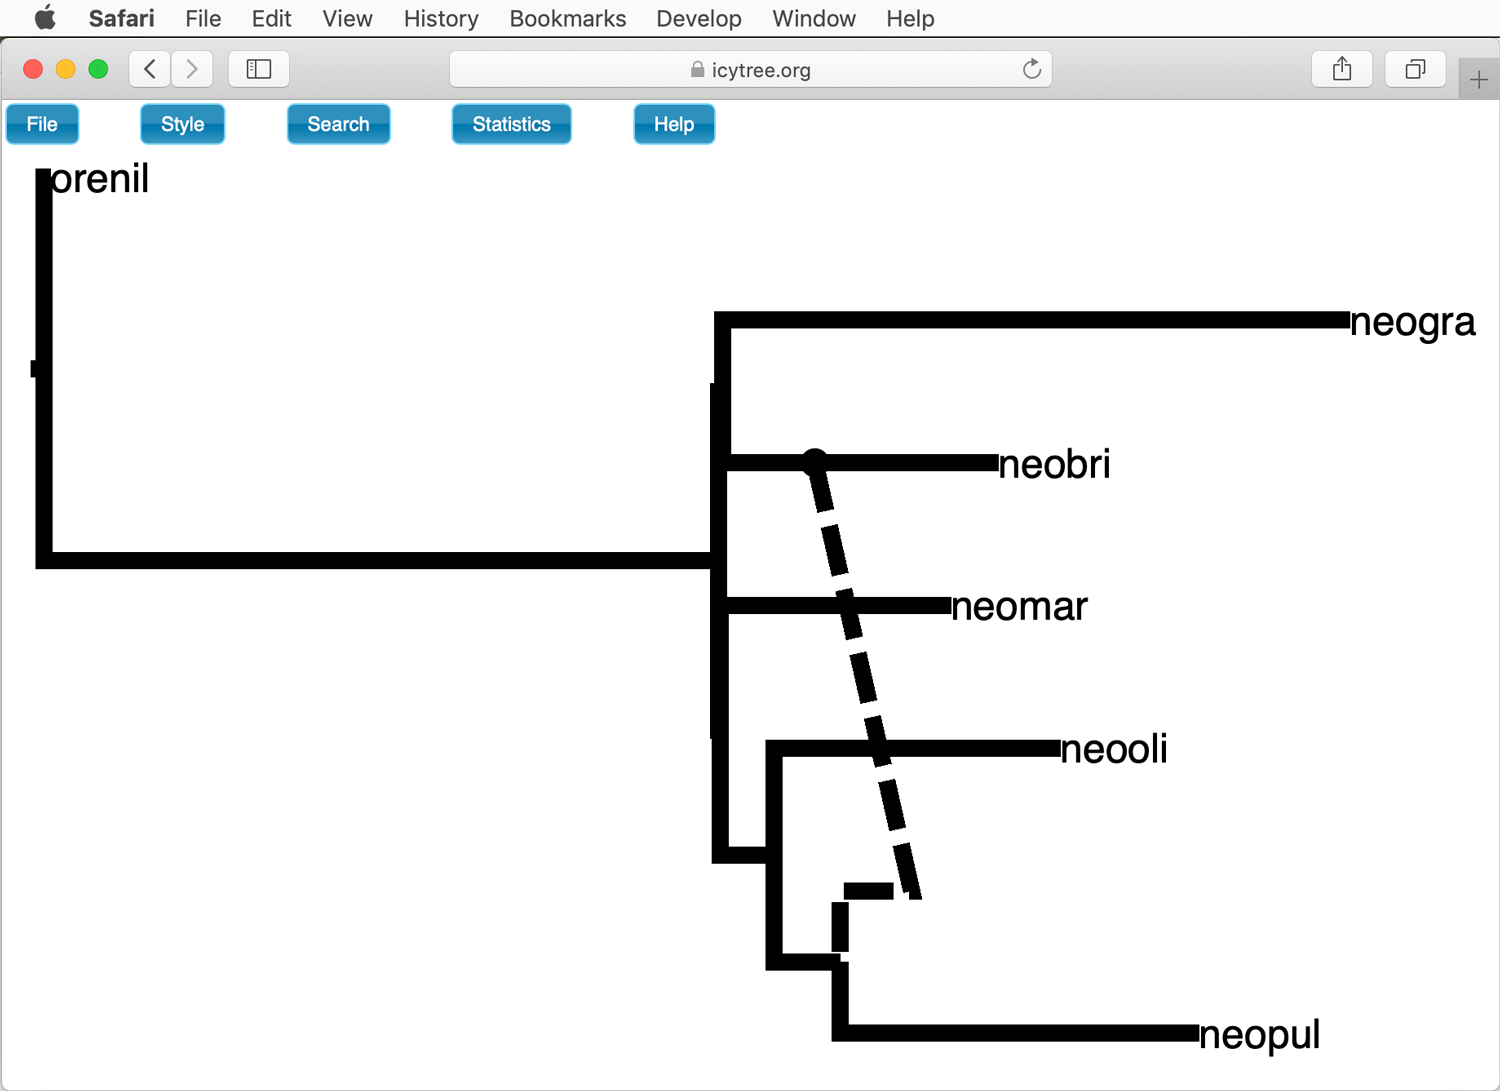
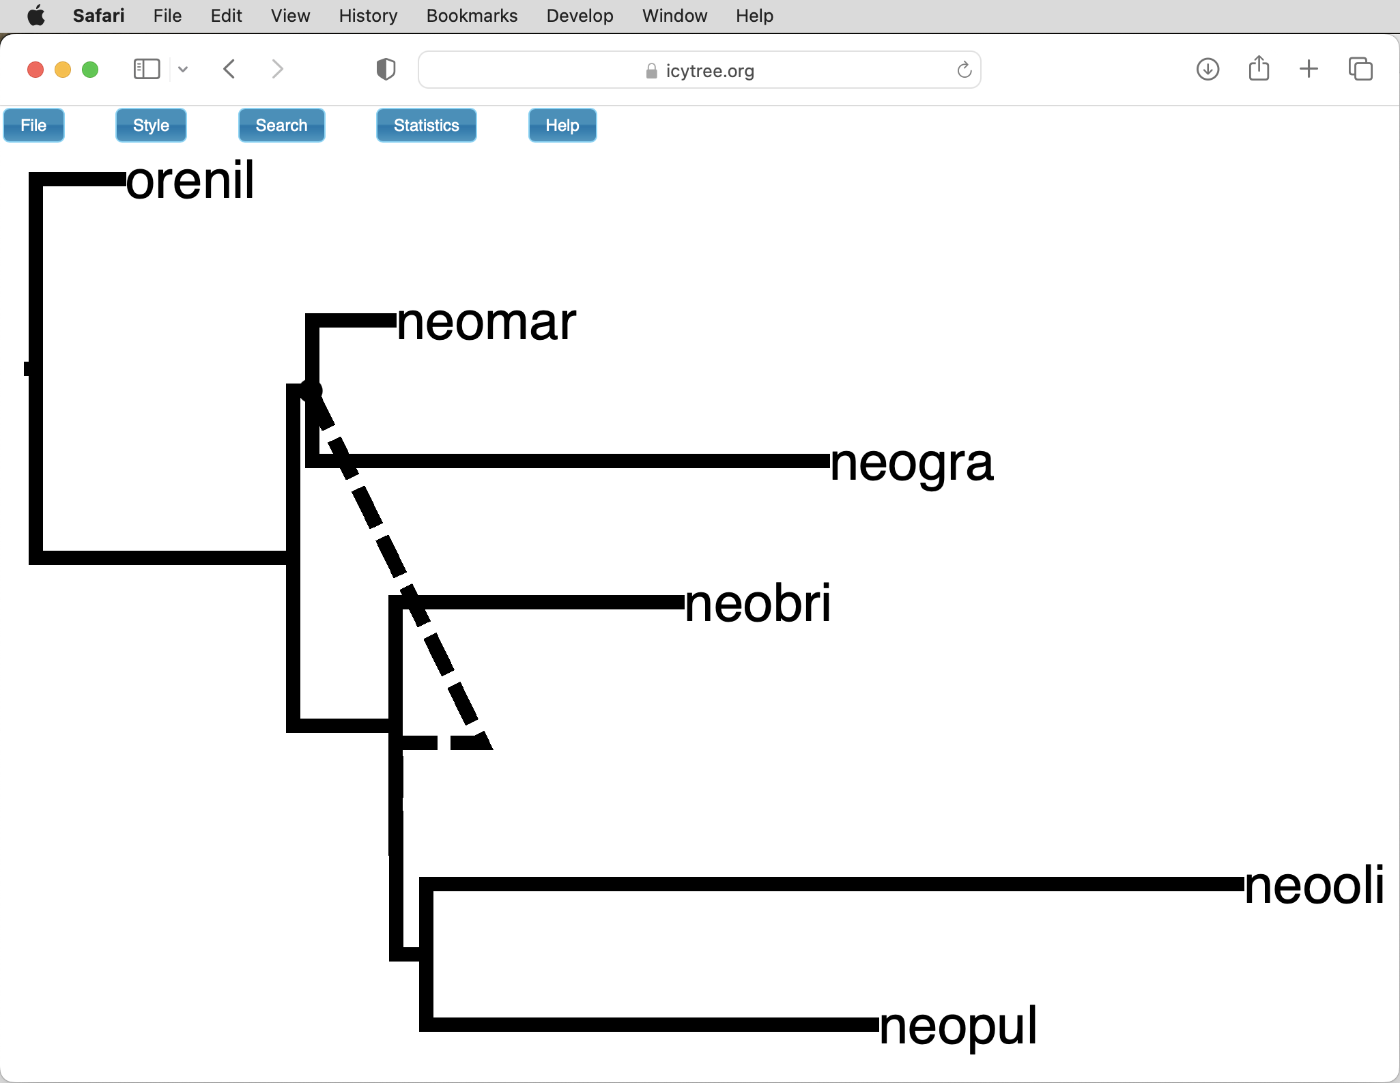
updated tutorial ml inference of species networks

Changed region(s): [[0.1843, 0.2742, 1.0, 0.9751], [0.0, 0.0, 1.0, 0.518], [0.6143, 0.9141, 0.8907, 0.9751]]

diff --git a/ml_inference_of_species_networks/README.md b/ml_inference_of_species_networks/README.md
@@ -5,7 +5,7 @@ By [Michael Matschiner](https://evoinformatics.group/team.html#michaelmatschiner
 
 ## Summary
 
-Particularly when investigating groups of rapidly diverging species, incomplete lineage sorting (ILS) may not be the only biological process leading to variation among gene trees. Hybridization between species can lead to transfer of genetic material – so-called "introgression" between these, and thus produce gene trees that differ from the species tree. Introgression can therefore add "reticulation edges" to species trees, meaning that these are no longer bi-furcating and become a "network" instead of a tree. The identification of species networks from genomic data is still a challenging task that sees a lot of active method development. The more applicable of the currently available methods infer species networks from sets of alignments or gene trees; while a few SNP-based methods have been developed, these are so far too computationally demanding to be practical. In this tutorial, we will apply one of the earliest methods for the inference of species networks from gene trees, the "[InferNetwork\_ML](https://wiki.rice.edu/confluence/display/PHYLONET/InferNetwork_ML)" method implemented in the program [PhyloNet](https://bioinfocs.rice.edu/phylonet).
+Particularly when investigating groups of rapidly diverging species, incomplete lineage sorting (ILS) may not be the only biological process leading to variation among gene trees. Hybridization between species can lead to transfer of genetic material – so-called "introgression" between these – and thus produce gene trees that differ from the species tree. Introgression can therefore add "reticulation edges" to species trees, meaning that these are no longer bi-furcating and become a "network" instead of a tree. The identification of species networks from genomic data is still a challenging task that sees a lot of active method development. The more applicable of the currently available methods infer species networks from sets of alignments or gene trees; while a few SNP-based methods have been developed, these are so far too computationally demanding to be practical. In this tutorial, we will apply one of the earliest methods for the inference of species networks from gene trees, the "[InferNetwork\_ML](https://wiki.rice.edu/confluence/display/PHYLONET/InferNetwork_ML)" method implemented in the program [PhyloNet](https://bioinfocs.rice.edu/phylonet). This method was recently highlighted as being particularly reliable despite its speed ([Hibbins and Hahn 2022](https://doi.org/10.1093/genetics/iyab173)).
 
 
 ## Table of contents
@@ -58,7 +58,7 @@ The following tools are required additionally:
 
 * **PhyloNet:** The [PhyloNet](https://bioinfocs.rice.edu/phylonet) program ([Than et al. 2008](https://doi.org/10.1186/1471-2105-9-322)) implements a range of methods for the inference of species trees and networks in a maximum-likelihood, Bayesian, or parsimony framework. PhyloNet is not available as a module on Saga, but as it is written in Java, it also does not need to be compiled and can thus simply be downloaded and placed in the current directory on Saga. This can be done with the following commands:
 
-		wget https://bioinfocs.rice.edu/sites/g/files/bxs266/f/kcfinder/files/PhyloNet_3.8.2.jar
+		wget https://phylogenomics.rice.edu/media/PhyloNet.jar
 	
 	To run PhyloNet, Java is required. To load Java, use these commands:
 	
@@ -67,7 +67,7 @@ The following tools are required additionally:
 
 * **babette:** [babette](https://github.com/ropensci/babette) ([Bilderbeek and Etienne (2018)](https://doi.org/10.1111/2041-210X.13032)) is an R package that allows the generation of basic XML input files for BEAST2 through scripting instead of the BEAUti GUI. Installation of this R package is required on Saga. To install it there, use the following commands:
 
-		module load R/4.0.0-foss-2020a
+		module load R/4.1.0-foss-2021a
 		R
 		install.packages("babette", repos='http://cran.us.r-project.org')
 		quit(save="no")
@@ -78,6 +78,10 @@ The following tools are required additionally:
 ## Extraction of alignment blocks
 
 As the whole-genome alignment produced in tutorial [Whole-Genome Alignment](../whole_genome_alignment/README.md) is stored in MAF format, and this format can not be read by programs for phylogenetic inference, we will need to first extract sets of alignment blocks in a format such as Nexus before these can used for the analyses in this tutorial. We are going to combine this alignment extraction with some basic filtering to extract alignment blocks only from the most reliably aligned regions of the whole-genome alignment.
+
+* Make sure that you have file `cichlids_chr5.maf` in your current working directory on Saga. If that is not the case, copy it from the directory in which you performed the Cactus analysis in tutorial [Whole-Genome Alignment](../whole_genome_alignment/README.md), or copy it from `/cluster/projects/nn9458k/phylogenomics/week2/res`:
+
+		cp /cluster/projects/nn9458k/phylogenomics/week2/res/cichlids_chr5.maf .
 
 * Add the script `make_alignments_from_maf.py` to your current directory on Saga, by copying it from `/cluster/projects/nn9458k/phylogenomics/week2/src` or by downloading it from GitHub, using one of the following two commands:
 
@@ -154,18 +158,15 @@ However, we obviously don't want to set up XML files with BEAUti for hundreds or
 		#
 		# Accounting:
 		#SBATCH --account=nn9458k
-		#
-		# Output:
-		#SBATCH --output=prepare_phylonet.out
 
 		# Set up job environment.
 		set -o errexit  # Exit the script on any error
 		set -o nounset  # Treat any unset variables as an error
 		module --quiet purge  # Reset the modules to the system default
 
-		# Load modules
-		module load R/4.0.0-foss-2020a
-		module load Beast/2.6.4-GCC-9.3.0
+		# Load module.
+		module load R/4.1.0-foss-2021a
+		module load Beast/2.6.7-GCC-10.3.0-CUDA-11.3.1
 
 		# Set a variable for the directory.
 		dir=alignments
@@ -179,7 +180,7 @@ However, we obviously don't want to set up XML files with BEAUti for hundreds or
 			xml=${fasta%.fasta}.xml
 			Rscript make_xml.r ${fasta} ${xml}
 		done
-
+	
 		# Analyze every xml file with beast.
 		cd ${dir} # Go into the alignment directory to run beast there. 
 		for xml in *${last_char}.xml
@@ -202,18 +203,27 @@ However, we obviously don't want to set up XML files with BEAUti for hundreds or
 			Rscript convert_to_newick.r ${tre} ${nwk}
 		done
 
-	This script uses a quick-and-dirty way allowing parallelization: The line with `last_char=${1}` stores a variable that can be specified outside of this script, when calling it with `sbatch`. When we then call this script for example with `sbatch prepare_phylonet.slurm 0`, the variable "0" is passed into it and used to process only a subset of files. The line `for fasta in ${dir}/*${last_char}.fasta` for example then loops over all Fasta file in the alignment directory that end in `0.fasta`. We can therefore submit this script ten times with `sbatch prepare_phylonet.slurm 0` to `sbatch prepare_phylonet.slurm 9` to process all alignment files with ten parallel analyses. This will allow us to reduce the run time from over 2 hours to about 20 minutes.
+	This script uses a quick-and-dirty way allowing parallelization: The line with `last_char=${1}` stores a variable that can be specified outside of this script, when calling it with `sbatch`. When we then call this script for example with `sbatch prepare_phylonet.slurm 0`, the variable "0" is passed into it and used to process only a subset of files. The line `for fasta in ${dir}/*${last_char}.fasta` for example then loops over all Fasta file in the alignment directory that end in `0.fasta`. We can therefore submit this script ten times with `sbatch prepare_phylonet.slurm 0` to `sbatch prepare_phylonet.slurm 9` to process all alignment files with ten parallel analyses. This will allow us to reduce the run time from over 2 hours to about 20 minutes. If you noticed that we here used an older BEAST2 module: This was necessary because babette is not yet made compatible with the latest version of BEAST2, v.2.7.
 
 * Submit this new Slurm script ten times with `sbatch` using the following loop:
 
-		for i in {0..9}; do sbatch prepare_phylonet.slurm ${i}; done
+		for i in {0..9}
+		do
+			sbatch -o prepare_phylonet.${i}.out prepare_phylonet.slurm ${i}
+		done
 
-	As the script runs, it should first add XML files to the alignment directory, then BEAST2's output files, then the MCC summary trees, and finally files with the MCC trees converted to Newick format. You could occasionally monitor the progress of it by checking of how many files with the endings `.xml`, `.trees`, `.tre`, and `.nwk` have already been written:
+	As the script runs, it should first add XML files to the alignment directory, then BEAST2's output files, then the MCC summary trees, and finally files with the MCC trees converted to Newick format.
+	
+* Occasionally monitor the progress of the script `prepare_phylonet.slurm` by checking how many files with the endings `.xml`, `.trees`, `.tre`, and `.nwk` have already been written:
 
 		ls alignments/*.xml | wc -l
 		ls alignments/*.trees | wc -l
 		ls alignments/*.tre | wc -l
 		ls alignments/*.nwk | wc -l
+
+	Compare these numbers to the number of alignment files in Fasta format:
+	
+		ls alignments/*.fasta | wc -l
 
 * When the Slurm script has finished, make sure that the expected number of files with the ending `.nwk` has been written:
 
@@ -307,7 +317,7 @@ However, we obviously don't want to set up XML files with BEAUti for hundreds or
 		module load Java/11.0.2
 
 		# Run phylonet.
-		java -jar PhyloNet_3.8.2.jar phylonet.nex
+		java -jar PhyloNet.jar phylonet.nex
 
 * Then, submit the script `run_phylonet.slurm` with `sbatch`:
 
@@ -494,7 +504,7 @@ If there is time left, you could repeat the PhyloNet analysis with gene trees wi
 		module load Java/11.0.2
 
 		# Run phylonet.
-		java -jar PhyloNet_3.8.2.jar phylonet_nobl.nex
+		java -jar PhyloNet.jar phylonet_nobl.nex
 
 * Then, submit this Slurm script with `sbatch`:
 
@@ -517,9 +527,9 @@ If we had *a priori* hypotheses for how the species within the dataset could be 
 
 We'll use the `CalGTProb` command to assess the relative support of two hypotheses: The null hypothesis that assumes no introgression, and the alternative hypothesis in which introgression occurred between *Neolamprologus brichardi* ("neobri") and *Neolamprologus pulcher* ("neopul"). In both cases, the species relationship is assumed to be according to the most strongly supported phylogeny found for these species by [Bouckaert et al. (2019)](https://doi.org/10.1371/journal.pcbi.1006650). The corresponding strings in extended Newick format are the listed below.
 
-null_hypothesis: "(orenil,((neomar,neogra),(neobri,(neooli,neopul))));"
+Null hypothesis: "(orenil,((neomar,neogra),(neobri,(neooli,neopul))));"
 		
-alt_hypothesis: "(orenil,(((neomar,X#H1),neogra),(neobri,(neooli,(neopul)X#H1))));"
+Alternative hypothesis: "(orenil,((neomar,neogra),((neobri,X#H1),(neooli,(neopul)X#H1))));"
 
 * To visualize both hypotheses, write a new file on your local computer with the following two lines:
 
@@ -593,7 +603,7 @@ alt_hypothesis: "(orenil,(((neomar,X#H1),neogra),(neobri,(neooli,(neopul)X#H1)))
 		module load Java/11.0.2
 
 		# Run phylonet.
-		java -jar PhyloNet_3.8.2.jar phylonet_null.nex
+		java -jar PhyloNet.jar phylonet_null.nex
 
 * Do the same for file `run_phylonet_alt.slurm`, except that you replace the three occurrences of `phylonet` with `phylonet_alt`.
 
@@ -628,12 +638,11 @@ alt_hypothesis: "(orenil,(((neomar,X#H1),neogra),(neobri,(neooli,(neopul)X#H1)))
 
 <a name="q2"></a>
 
-* **Question 2:** The result might be quite different from the one obtained in the first PhyloNet analysis. In my case, the first analysis with PhyloNet that included branch lengths did not find support for a reticulation edge, while the second analysis without branch lengths in the gene trees produced a species network in which *Neolamprologus brichardi* ("neopul") appeared - rather unconventionally – as the sister to *Neolamprologus gracilis* ("neogra") and was connected to *Neolamprologus pulcher* ("neopul") with a reticulation edge.<p align="center"><img src="img/safari6.png" alt="Safari" width="700"></p>
-
+* **Question 2:** The result might be quite different from the one obtained in the first PhyloNet analysis. In my case, the first analysis with PhyloNet that included branch lengths did not find support for a reticulation edge, while the second analysis without branch lengths in the gene trees produced a species network in which the ancestor of *Neolamprologus marunguensis* ("neomar") and *Neolamprologus gracilis* ("neogra") were connected with the ancestor of *Neolamprologus pulcher* ("neopul")  and *Neolamprologus olivaceus* ("neooli").<p align="center"><img src="img/safari6.png" alt="Safari" width="700"></p>
 
 	In my view, these differences illustrate how the likelihood surface can be highly complex when species networks are inferred, and that maximum-likelihood approaches can therefore often produce results that are not particularly robust to minor changes in the model, or even to re-analyses with the same model. Species networks obtained with maximum-likelihood approaches should therefore be corroborated with other approaches, such as Bayesian inference (see tutorial [Bayesian Inference of Species Networks](../bayesian_inference_of_species_networks/README.md)) or tests of introgression based on tree-topology comparisons (see tutorial [Analyses of Introgression with Tree Topologies](../analysis_of_introgression_with_tree_topologies/README.md)) or SNPs (see tutorial [Analysis of Introgression with SNP Data](../analysis_of_introgression_with_snp_data/README.md)), before drawing conclusions about introgression.
 
 
 <a name="q3"></a>
 
-* **Question 3:** This seems to be the case. In my analysis, the log-likelihood of the null hypothesis no introgression was -2154.4, while the log-likelihood of the alternative hypothesis, with introgression between *Neolamprologus brichardi* ("neobri") and *Neolamprologus pulcher* ("neopul"), was -2134.3. The likelihood difference was thus over 20 log units, which translates to a *p*-value below 0.0001, allowing us to reject the null hypothesis without introgression. Note, however, that this comparison was made under the assumption that the true tree topology is the one that we specified, and if that should have been incorrect, the support for introgression from the likelihood comparison could be misleading.
+* **Question 3:** This may be the case. In my analysis, the log-likelihood of the null hypothesis no introgression was -2137.9, while the log-likelihood of the alternative hypothesis, with introgression between *Neolamprologus brichardi* ("neobri") and *Neolamprologus pulcher* ("neopul"), was -2132.1. The likelihood difference was thus over 5.4 log units, which translates to a *p*-value below 0.001, allowing us to reject the null hypothesis without introgression. Note, however, that this comparison was made under the assumption that the true tree topology is the one that we specified, and if that should have been incorrect, the support for introgression from the likelihood comparison could be misleading.
